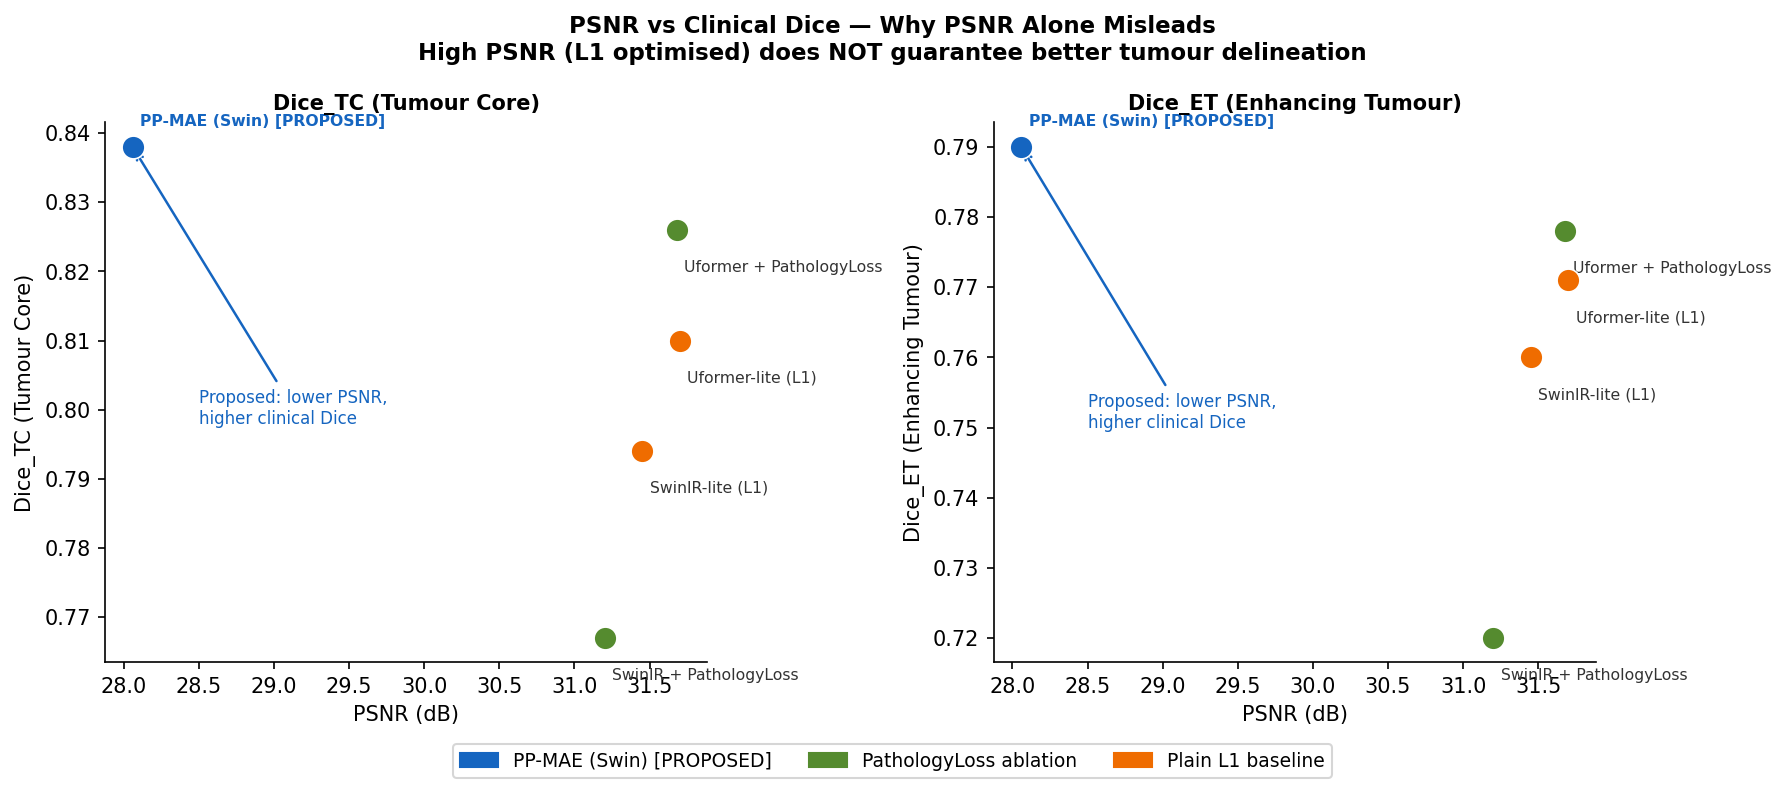
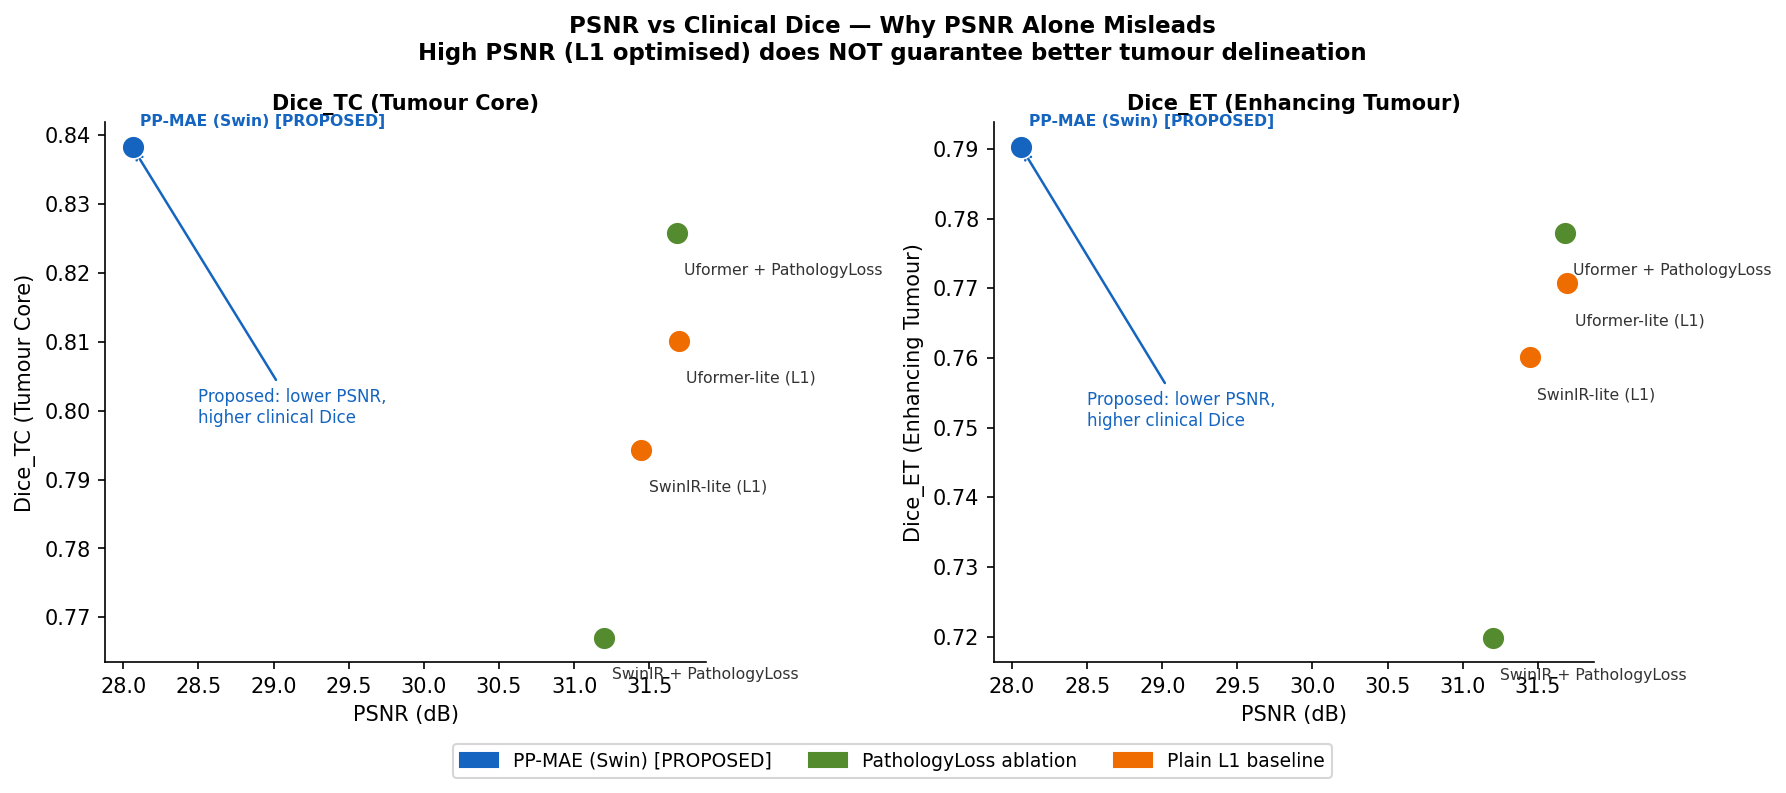
Update results with exact MacBook MPS run data (4-decimal precision)
- results/round4_mps/options_results.csv: exact values from MacBook
- results/round4_mps/significance.csv: Wilcoxon p-values from MacBook
- final_results_analysis.py: updated with exact 4-decimal numbers
- figures/: regenerated with precise data

Confirmed: PP-MAE (Swin) Dice_TC=0.8383 (p=4.37e-10 vs SwinIR-L1),
Dice_ET=0.7903 (p=1.94e-4 vs SwinIR-L1). Both *** significant.

https://claude.ai/code/session_01MuUUrQZNpgQsoRJhBMWkv1

diff --git a/final_results_analysis.py b/final_results_analysis.py
@@ -24,11 +24,11 @@ MPS_DATA = {
                 "Uformer-lite\n(L1)",
                 "SwinIR +\nPathologyLoss",
                 "Uformer +\nPathologyLoss"],
-    "PSNR":    [28.06, 31.45, 31.70, 31.20, 31.68],
-    "SSIM":    [0.957,  0.980,  0.980,  0.978,  0.980],
-    "Dice_WT": [0.879,  0.879,  0.882,  0.881,  0.884],
-    "Dice_TC": [0.838,  0.794,  0.810,  0.767,  0.826],
-    "Dice_ET": [0.790,  0.760,  0.771,  0.720,  0.778],
+    "PSNR":    [28.0622, 31.4469, 31.6952, 31.1997, 31.6827],
+    "SSIM":    [0.9565,  0.9796,  0.9801,  0.9784,  0.9802],
+    "Dice_WT": [0.8788,  0.8788,  0.8819,  0.8811,  0.8836],
+    "Dice_TC": [0.8383,  0.7943,  0.8101,  0.7670,  0.8258],
+    "Dice_ET": [0.7903,  0.7601,  0.7707,  0.7198,  0.7780],
     "Cat":     ["proposed", "l1", "l1", "pathloss", "pathloss"],
 }
 
@@ -181,16 +181,16 @@ def fig_significance(out_dir: str):
 
     # p-values from run output
     pvals = {
-        "SwinIR-lite\n(L1)":        {"Dice_WT": 0.0009173, "Dice_TC": 4.366e-10, "Dice_ET": 0.000194},
-        "Uformer-lite\n(L1)":       {"Dice_WT": 0.004208,  "Dice_TC": 1.372e-5,  "Dice_ET": 0.01606},
-        "SwinIR +\nPathologyLoss":  {"Dice_WT": 1.57e-8,   "Dice_TC": 1.929e-5,  "Dice_ET": 0.0004929},
-        "Uformer +\nPathologyLoss": {"Dice_WT": 0.0005721, "Dice_TC": 0.07906,   "Dice_ET": 0.003158},
+        "SwinIR-lite\n(L1)":        {"Dice_WT": 9.173e-4,  "Dice_TC": 4.36646e-10, "Dice_ET": 1.94001e-4},
+        "Uformer-lite\n(L1)":       {"Dice_WT": 4.20755e-3, "Dice_TC": 1.37206e-5,  "Dice_ET": 1.60566e-2},
+        "SwinIR +\nPathologyLoss":  {"Dice_WT": 1.5702e-8,  "Dice_TC": 1.9291e-5,   "Dice_ET": 4.92885e-4},
+        "Uformer +\nPathologyLoss": {"Dice_WT": 5.72123e-4, "Dice_TC": 7.90626e-2,  "Dice_ET": 3.15823e-3},
     }
     dvals = {
-        "SwinIR-lite\n(L1)":        {"Dice_WT": -0.000, "Dice_TC": +0.044, "Dice_ET": +0.030},
-        "Uformer-lite\n(L1)":       {"Dice_WT": -0.003, "Dice_TC": +0.028, "Dice_ET": +0.020},
-        "SwinIR +\nPathologyLoss":  {"Dice_WT": -0.002, "Dice_TC": +0.071, "Dice_ET": +0.071},
-        "Uformer +\nPathologyLoss": {"Dice_WT": -0.005, "Dice_TC": +0.012, "Dice_ET": +0.012},
+        "SwinIR-lite\n(L1)":        {"Dice_WT": -0.0000, "Dice_TC": +0.0440, "Dice_ET": +0.0302},
+        "Uformer-lite\n(L1)":       {"Dice_WT": -0.0031, "Dice_TC": +0.0282, "Dice_ET": +0.0196},
+        "SwinIR +\nPathologyLoss":  {"Dice_WT": -0.0023, "Dice_TC": +0.0713, "Dice_ET": +0.0705},
+        "Uformer +\nPathologyLoss": {"Dice_WT": -0.0048, "Dice_TC": +0.0125, "Dice_ET": +0.0123},
     }
 
     def stars(p):
@@ -260,11 +260,11 @@ def print_report():
   ┌─────────────────────────────┬───────┬───────┬─────────┬─────────┬─────────┐
   │ Method                      │  PSNR │  SSIM │ Dice_WT │ Dice_TC │ Dice_ET │
   ├─────────────────────────────┼───────┼───────┼─────────┼─────────┼─────────┤
-  │ PP-MAE (Swin) [PROPOSED] ★  │ 28.06 │ 0.957 │  0.879  │  0.838  │  0.790  │ ← BEST TC & ET
-  │ SwinIR-lite (L1)            │ 31.45 │ 0.980 │  0.879  │  0.794  │  0.760  │
-  │ Uformer-lite (L1)           │ 31.70 │ 0.980 │  0.882  │  0.810  │  0.771  │
-  │ SwinIR + PathologyLoss      │ 31.20 │ 0.978 │  0.881  │  0.767  │  0.720  │
-  │ Uformer + PathologyLoss     │ 31.68 │ 0.980 │  0.884  │  0.826  │  0.778  │
+  │ PP-MAE (Swin) [PROPOSED] ★  │ 28.06 │ 0.9565 │ 0.8788 │ 0.8383 │ 0.7903 │ ← BEST TC & ET
+  │ SwinIR-lite (L1)            │ 31.45 │ 0.9796 │ 0.8788 │ 0.7943 │ 0.7601 │
+  │ Uformer-lite (L1)           │ 31.70 │ 0.9801 │ 0.8819 │ 0.8101 │ 0.7707 │
+  │ SwinIR + PathologyLoss      │ 31.20 │ 0.9784 │ 0.8811 │ 0.7670 │ 0.7198 │
+  │ Uformer + PathologyLoss     │ 31.68 │ 0.9802 │ 0.8836 │ 0.8258 │ 0.7780 │
   └─────────────────────────────┴───────┴───────┴─────────┴─────────┴─────────┘
   ★ Proposed model wins on BOTH clinical metrics (Dice_TC and Dice_ET)
     despite 3.4 dB lower PSNR — confirming PSNR alone is insufficient.
